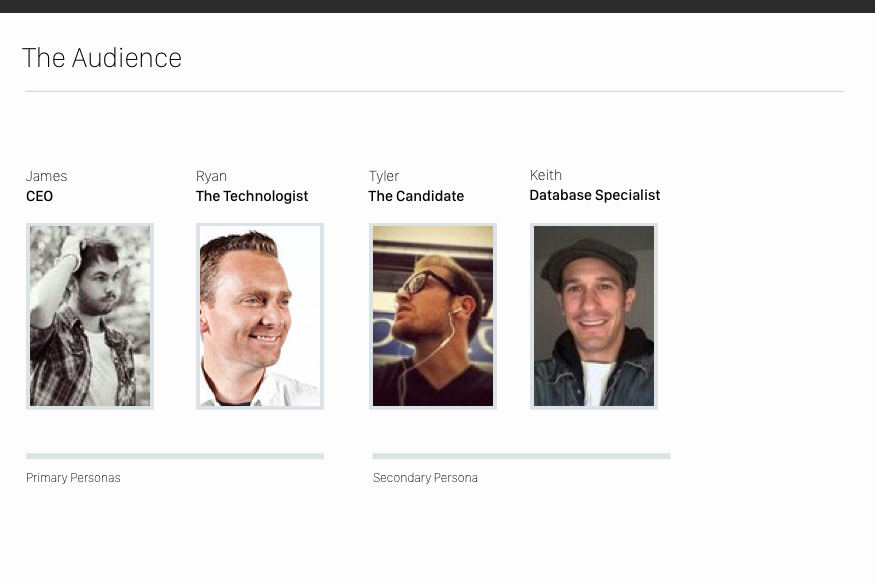
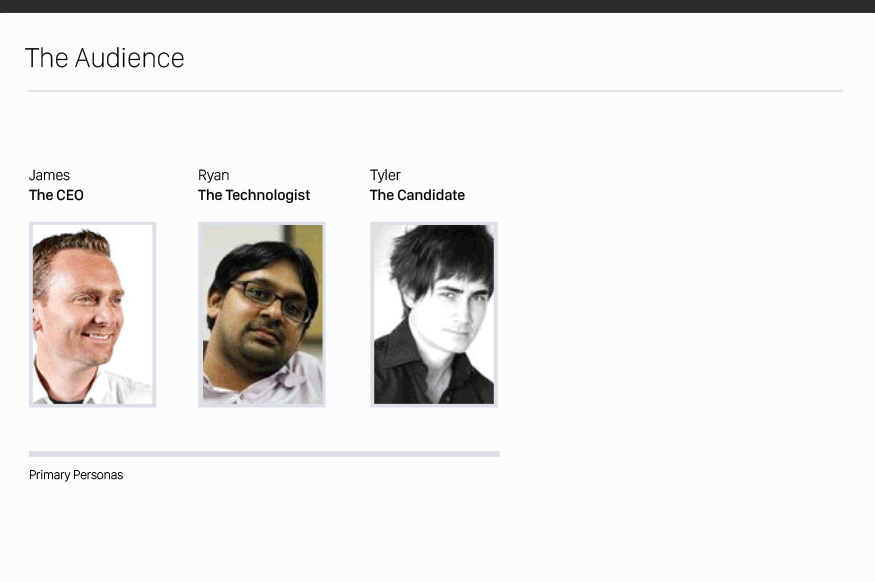
concurrency at 90%

diff --git a/concurrency.html b/concurrency.html
@@ -23,7 +23,7 @@
 		<header class="entry-header">
 			<h1>Concurrency</h1>
 			<h2>Business technology made simple.</h2>
-			<p class="read-time">Read time 4 minutes</p>
+			<p class="read-time">Read time: 5 minutes</p>
 		</header><!-- .entry-header -->
 
         <div class="post-thumbnail">
@@ -33,18 +33,18 @@
 		<div class="entry-content">
 			<section class="project-block">
 				<h4>My Role</h4>
-				<p>I was the UX lead working to define the experience strategy, perform a content audit, create and present deliverables to stakeholders, design and test the new information architecture, wireframing, prototyping, style guide creation, and usability testing the final responsive design.</p>
+				<p>I was the UX Lead working to define the experience strategy, perform a content audit, create and present deliverables to stakeholders, design and test the new information architecture, wireframing, prototyping, style guide creation, and usability testing the final responsive design.</p>
 				<p><small><strong>The Team:</strong> <a href="https://www.linkedin.com/pub/emery-ullenberg/12/741/38">Emery Ullenberg</a>, <a href="http://www.jontetzlaff.com">Jon Tetzlaff</a>, <a href="https://www.linkedin.com/pub/keith-donnell/13/438/231">Keith Donnell</a></small></p>
 			</section>
 
 			<section class="project-block">
 				<h4>The Challenge</h4>
-				<p>Create a responsive site that cleverly explains an highly-complex suite of products and technologies in a way that's both helpful for those not-in-the-know, and useful for expert technologists.</p>
+				<p>Create a responsive site that cleverly explains a highly-complex suite of products and technologies in a way that's both helpful for those not-in-the-know, and useful for expert technologists.</p>
 			</section>
 
 			<section class="project-block">
-				<h4>The Research</h4>
-				<p>It's a rare thing for a design studio to work with a client that shares so much in common with them. Getting to know <a href="http://concurrency.com">Concurrency</a> and their users was a treat, because it meant getting to know ourselves better at the same time.</p>
+				<h4>The Research</h4><!--
+				<p>It's a rare thing for a design studio to work with a client that shares so much in common with them. Because <a href="http://concurrency.com">Concurrency</a> provides similar technology solutions, they also run similar operations internally. We worked with their UX Designers to define the current and goal audience.</p>-->
 
 				<h3>Workshopping</h3>
 				<p>Our initial discovery kickoff with Concurrency had us running goal exploration, persona creation, and stakeholder alignment exercises to construct the initial hypothesis that would drive our research.</p>
@@ -52,34 +52,35 @@
 					<img src="img/thumbs/concurrency-workshop.jpg" alt="Concurrency User Definition and Goals Workshop">
 				</figure>
 
-				<h3>Personas</h3>
-				<p>This will be the area for the quick persona sentece or two. Nothing more complicated needed.</p>
+				<h3>Persona Development</h3>
+				<p>After the workshop, I sat down to research Concurrency's user behavior patterns, motivations and goals through phone interviews and ethnographic research. We ended on three main characters: The Owner, The Technologist, and The Candidate.</p>
+				<p>Concurrency has been growing at a rapid pace, so making sure the site was alluring to possible candidates and graduates was a high-priority. Proving they were thought-leaders and demonstrating  large-scale, carefully executed solutions that stood out to possible decisions makers was a must.</p>
 				<div class="row t-2">
 					<div class="col-2">
 						<img src="img/thumbs/concurrency-audience.png" alt="Concurrency Audience" />
 					</div>
 					<div class="col-2">
-						<img src="img/thumbs/concurrency-audience.png" alt="Concurrency Audience" />
+						<img src="img/thumbs/concurrency-persona-1.png" alt="Concurrency Persona" />
 					</div>
 				</div>
 				<div class="row t-1">
 					<div class="col-2">
-						<img src="img/thumbs/concurrency-audience.png" alt="Concurrency Audience" />
+						<img src="img/thumbs/concurrency-persona-2.png" alt="Concurrency Audience" />
 					</div>
 					<div class="col-2">
-						<img src="img/thumbs/concurrency-audience.png" alt="Concurrency Audience" />
+						<img src="img/thumbs/concurrency-persona-3.png" alt="Concurrency Persona" />
 					</div>
 				</div>
 				
 				<h3>Content Audit</h3>
-				<p>Before the process of restructuring any site begins, we perform a Content Audit on the current site, app, or system. This allows the team to find large content holes, uncomfortable flows, and grasp the scope of the project.</p>
-				<figure>
+				<p>Before the process of restructuring any site begins, we perform a Content Audit on the current site, app, or system. This allows the team to find large content holes, uncomfortable flows, and realize the scope of the project.</p>
+				<figure class="t-2 b-2">
 					<img src="img/thumbs/concurrency-content-audit.png" alt="Concurrency Content Audit" />
 				</figure>
 
 
 				<h3>Information Architecture / Sitemap</h3>
-				<p>After mapping the system, running tree tests and card sorts with team members, stakeholders, and current users, we'll reorganize the structure and visualize the flow. This low-cost deliverable allows everyone involved to instantly grasp the scope of the project and guides discussions with the engineers and designers.</p>
+				<p>After mapping the system, running tree tests and card sorts with team members, stakeholders, and current users, we reorganized the structure and visualized the flow. This low-cost deliverable allows everyone to instantly grasp the scope of the project and guides discussions with the engineers and designers.</p>
 				<figure class="t-2 b-2">
 					<a href="https://live.uxpin.com/3890dd2afdbe4d12007976e33a452b9272ac947f#/pages/29074439/nosidebar" target="_blank">
 						<img src="img/thumbs/concurrency-sitemap.gif" alt="Concurrency Sitemap" />
@@ -92,7 +93,9 @@
 
 			<section class="project-block">
 				<h4>Wireframing &amp; Prototyping</h4>
-				<p>This will be the area for the quick persona sentece or two. Nothing more complicated needed.</p>
+				<p>Usually we'll begin the process with sketches and brainstorming, but because that had all been done earlier in the process, I jumped into <a href="http://uxpin.com" target="_blank">UXPin</a> to wire up the sitemap and get a good feel for the flow of the site.</p>
+				<p>I then iterated through the wireframe templates, redefining areas, and working with the client and content strategist to flesh out content, simplify user flows, and adding more relavant content to help guide the user.</p>
+				<p>At this point in the process, we'll usually begin to add realistic content and copy to help the client define the sites voice. It's also the only way to really know if the templates will hold up to real-life content.</p>
 				<figure class="t-2 b-2">
 					<img src="img/browser.png" alt="Browser Window" />
 					<video controls="controls" width="860" height="436" name="Concurrency Wireframes Preview">
@@ -106,16 +109,18 @@
 
 			<section class="project-block">
 				<h4>Visual Design</h4>
-				<p>This will be the area for the quick persona sentece or two. Nothing more complicated needed.</p>
+				<p>During the prototyping process, I'll work with the Producer and Designer to help communicate the mood of the site. We use Element Collages and Mood Boards to quickly define and iterate the look and feel without spending too much time on exact templates or pages.</p>
 
 				<h3>Style Guide</h3>
-				<p>This will be the area for the quick persona sentece or two. Nothing more complicated needed.</p>
+				<p>After the client has approved visual design, I'll work with the designer to create Style Guides and Pattern Libraries for each project depending on complexity and budget.</p>
+				<p>This allows for much easier feature development in the future. New designers and front-end developers can then use detailed prototypes, which are much quicker to produce, and style guides to develop new features without a heavy cost to the original designers time.</p>
 				<figured>
 					<img src="img/thumbs/concurrency-style-guide.png" alt="Concurrency Style Guide">
+					<p class="read-time text-center t-1"><small>Style Guide for Concurrency</small></p>
 				</figure>
 
 				<h3>Responsive Design</h3>
-				<p>This will be the area for the quick persona sentece or two. Nothing more complicated needed.</p>
+				<p>All of our designs need to work across an almost infinite array of screen sizes and pixel-densities. We work through Alpha and Beta cycles to produce functional prototypes that can be tested with real users before launch.</p>
 				<div class="row t-2">
 					<div class="col-3">
 						<img src="img/thumbs/concurrency-mobile-2.png" alt="Concurrency Mobile" />
@@ -134,8 +139,11 @@
 			</section>
 
 			<section class="project-block">
-				<h4>Conclusions</h4>
-				<p>This will be the area for the quick persona sentece or two. Nothing more complicated needed.</p>
+				<h4>Post-Launch</h4>
+				<p>After launch, it's my job to watch Google Analytics, Crazy Egg, VWO, Optimizely, or any related heat-mapping software to track interactions, scroll patterns, exit points, and goal conversion ratios.</p>
+				<p>Around two weeks to a month, I'll begin A/B testing certain features of the site and run usability tests, with the goal of collecting quantitative and qualitative data with the aim to focus development time on the second phase or iteration of the site or app.</p>
+				<p>There are many methods used to obtain real data and drive successful redesigns. This is one version of the process.</p>
+				<p>Thanks for reading!</p>
 			</section>
 			<section class="next-prev">
 				<a href="" class="button">← Prev Project</a>

diff --git a/css/screen.css b/css/screen.css
@@ -600,10 +600,10 @@ figure:last-child { padding-bottom: 0; }
   figure { padding-bottom: 30px; } 
 }
 
-@media (max-width: 600px) {
+@media (max-width: 660px) {
   body {
     font-size: 16px;
-    line-height: 1.4; 
+    line-height: 1.4;
   }
   h1 { font-size: 48px; }
   h2 { font-size: 24px; }
@@ -612,6 +612,11 @@ figure:last-child { padding-bottom: 0; }
     font-size: 1.25em;
     background: none;
     padding: 0;
+  }
+
+  .button {
+    letter-spacing: 2px;
+    padding: 12px 10px;
   }
 
   .intro { padding-bottom: 40px; }
